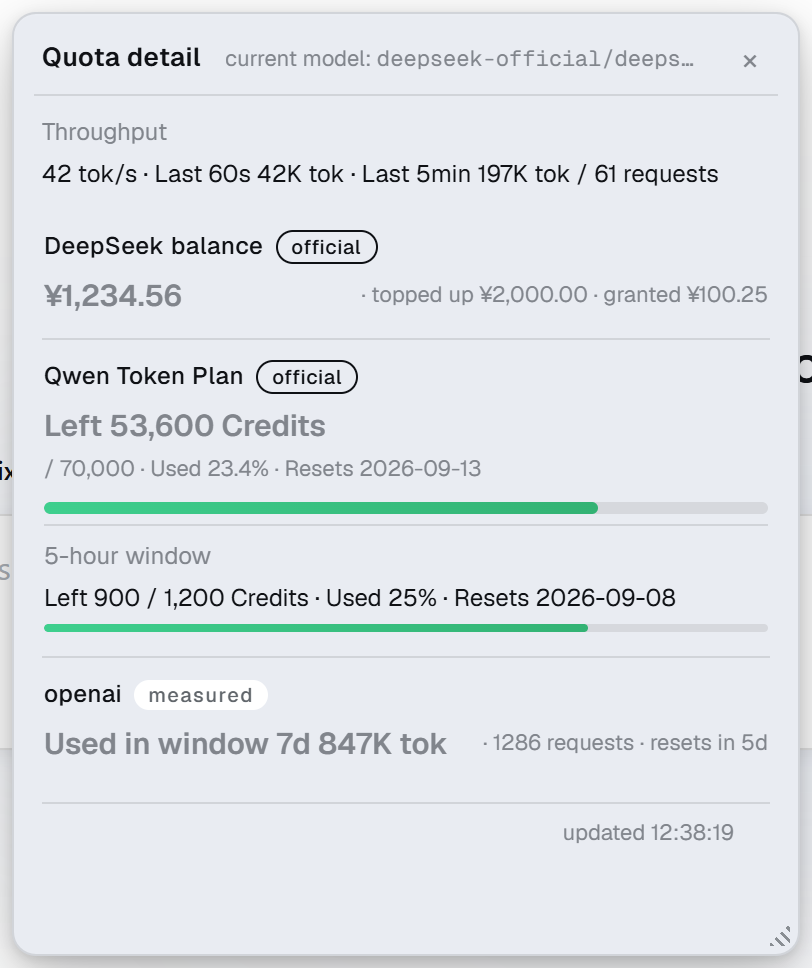
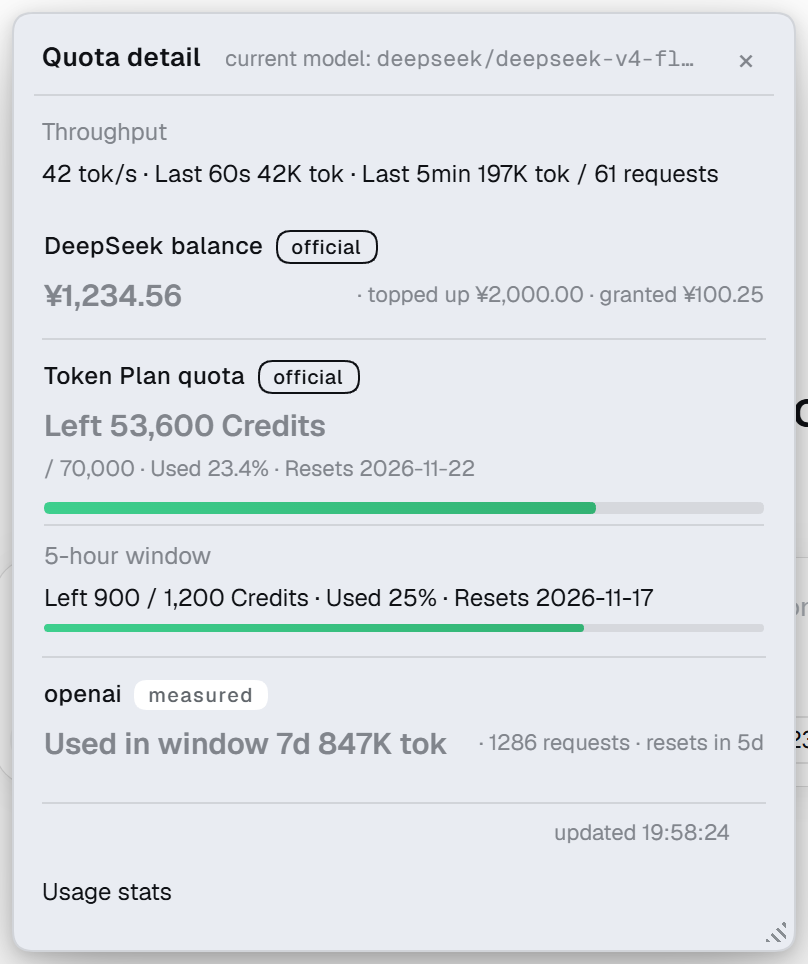
docs(shots): 重拍额度截图与 028 规格（028）
按修好的夹具重拍①徽标 GIF 与②③④⑤⑥⑦（zh）/①②③④⑤⑥（en）进 docs/images，
全部脚本生成（orchestrator 起 demo 实例 + make-shots）。②⑥控制台卡标签现为
「Token Plan 余量」/ Token Plan quota；⑤只显 DeepSeek 余额卡；⑥两条计量条与
重置日期完整可见。新增 specs/028-shot-fixture-faithfulness 四件，CHANGELOG
Unreleased/Fixed 记 028。README 图注不变；⑧-⑱用量图未受影响、不重拍。

diff --git a/specs/028-shot-fixture-faithfulness/spec.md b/specs/028-shot-fixture-faithfulness/spec.md
@@ -1,0 +1,48 @@
+# 028 截图夹具对齐宿主真值（三连图收敛 + 控制台卡标签）
+
+状态：进行中（2026-11-17）
+关联：005（徽标跟随模型）、026（卡片标签）、027（夜间说明）；scripts/shots/README.md
+
+## 背景
+
+README 的三种额度状态三连图（⑤⑥⑦）与徽标 GIF（①）停留在 2026-09-08 初版。2026-11-14 曾重拍，
+但 make-shots 在⑤之后崩（`Error: 点不到模型按钮（应显示「DeepSeek-V4-Flash」）`，抛在 `switchModel`），
+⑥⑦①从未重拍。本次修好取景链后复核夹具，发现三处与宿主真值漂移：
+
+1. **控制台卡标签漂移**：fixture `consoleCard` 标签写「千问 Token Plan」/ "Qwen Token Plan"，
+   而宿主 `token-plan-console` preset 的 `label`/`labelEn` 是「Token Plan 余量」/ "Token Plan quota"
+   （lib/index.js）。②③④⑥拍出的卡名与真实界面不符。
+2. **⑥用合成卡**：triptych 第二张推的是 `creditsPlanCard`（id `token-plan-credits`、4480/6000、无 meters），
+   这个 id 宿主 `publicCard` 白名单（lib/index.js）永不发出——是一张宿主造不出的假图。
+3. **钱卡 bindProviders 缺一条路由**：fixture `deepseekMoneyCard` 只绑 `['deepseek-official']`，
+   宿主 deepseek-balance 源的 `providers` 是 `['deepseek', 'deepseek-official']`（lib/index.js，经 `bindProviders` 直传）。
+   默认路由 `deepseek` 的模型匹配不到钱卡 ⇒ 面板 scoped 过滤为空 ⇒ `boundPanel` 退回全量（lib/client.js），
+   ⑤拍成「所有卡都在」的假图，而非「只显示当前供应商那张」。
+
+另有取景缺陷：徽标在输入行右对齐，中文权限标签 + 长模型名把整组推到 chip0.x≈715，
+浮框 x≈705 ⇒ 面板右缘 1225 > 视口 1150 ⇒ `framedClip` 把⑥的重置日期裁掉。
+
+## 目标
+
+- FR-001 `consoleCard` 标签对齐宿主 preset：zh「Token Plan 余量」/ en "Token Plan quota"。
+- FR-002 triptych 第二张改用 `consoleCard`（宿主真值、带两条窗口计量条），与②同源。
+- FR-003 删除合成 `creditsPlanCard` 整段（宿主永不发出，留着只会再被误用）。
+- FR-004 `deepseekMoneyCard` 的 `bindProviders` 改 `['deepseek', 'deepseek-official']`，与宿主 deepseek-balance 源一致。
+- FR-005 triptych 浮框 x 夹取 `Math.min(chip0.x-10, 视口宽-面板宽-90)`，防右缘裁切；徽标靠左时不生效。
+- FR-006 重拍受影响的①②③④⑤⑥⑦（zh）与①②③④⑤⑥（en）进 docs/images，全部脚本生成。
+
+## 非目标
+
+- 不改 lib/index.js、lib/client.js、test/：这是夹具与取景修复，宿主行为零变化。
+- 不重拍⑧-⑱用量统计图（用 usage payload，不含上述卡，11-14 已新且未受影响）。
+- 不改 README 图注（「官方余量卡与多窗口计量条」「有分母才画条」等描述对控制台卡仍成立）。
+- 不改⑦的 `emptyReason` 文案（宿主 lib/index.js 写死中文，英文套⑦按既定规则跳过）。
+
+## 验收标准
+
+- SC-001 ②⑥控制台卡标签逐字「Token Plan 余量」/ "Token Plan quota"；旧「千问 Token Plan」/ "Qwen Token Plan" 零残留。
+- SC-002 ⑤面板只显示 DeepSeek 余额卡（scoped 命中，不再退全量）。
+- SC-003 ⑥控制台卡两条计量条与重置日期完整可见，面板右缘留白、不裁切。
+- SC-004 仓库内 `creditsPlanCard` 与合成 id `token-plan-credits`（作为卡 id）零残留。
+- SC-005 `npm run check` 全绿（host / client / guards / check-manifest / check-docs / check-refs / check-submission）。
+- SC-006 零新路由、零新配置键、零新出站主机、零第三方依赖。

diff --git a/specs/028-shot-fixture-faithfulness/plan.md b/specs/028-shot-fixture-faithfulness/plan.md
@@ -1,0 +1,31 @@
+# 028 方案
+
+## 方案 A（采纳）夹具对齐宿主 + 取景夹取
+
+三处漂移都在 scripts/shots/fixture.mjs，取景在 make-shots.mjs，全是截图物料层，不碰宿主。
+标签与 `bindProviders` 直接照宿主真值抄（lib/index.js 的 `token-plan-console` preset 与 deepseek-balance 源 `providers`）；
+⑥换成与②同源的 `consoleCard`；合成卡删掉断绝误用；浮框 x 夹取防裁切。改完重拍受影响图。
+
+## 方案 B（否决）改 demo 路由 id 迁就旧夹具
+
+把 demo 的 deepseek 路由改名 deepseek-official 也能让⑤收敛，但那是拿测试环境去凑一张错夹具，
+且与宿主默认路由 `deepseek` 不符；正确方向是夹具绑双 id（宿主本就如此）。
+
+## 方案 C（否决）⑥保留合成卡只改标签
+
+`creditsPlanCard` 的 id 宿主永不发出，改标签也仍是假图；项目立场「宁可少一张也不拍宿主发不出的图」，
+必须换成宿主真值卡。
+
+## 已知盲点
+
+- `consoleCard` 带两条 meters，竖直能否塞进 triptych 浮框 h332 须实测——已验证塞得进，无需调高度。
+- 夹取用的视口宽 1150 是 triptych 内部取景视口（make-shots.mjs），不是 CLI 默认 1280；
+  写 docs 的窄视口闸门（make-shots.mjs）看的是 CLI 参数，默认取景不受影响。
+- 徽标右对齐程度随界面语言/权限标签长度变；夹取只在右缘要溢出时生效，向左不改变原取景。
+
+## 实施步骤
+
+1. fixture.mjs：`consoleCard` 标签、triptych 换卡、删 `creditsPlanCard`、钱卡 `bindProviders` 双 id。
+2. make-shots.mjs：triptych 浮框 x 夹取。
+3. 起 demo 实例（orchestrator-docs-028.mjs）重拍 zh ①-⑦ / en ①-⑥ 进 docs/images。
+4. 本目录四件 + CHANGELOG Unreleased/Fixed；全量门禁；提交。

diff --git a/specs/028-shot-fixture-faithfulness/INTERFACE.md b/specs/028-shot-fixture-faithfulness/INTERFACE.md
@@ -1,0 +1,31 @@
+# 028 INTERFACE（实现唯一真值）
+
+## 1. 宿主
+
+无改动。`publicCard` 白名单、`token-plan-console` preset 的 `label`/`labelEn`、
+deepseek-balance 源 `providers`、`bindProviders` 直传（均在 lib/index.js）为本次对齐的**权威来源**，不改。
+
+## 2. 夹具（scripts/shots/fixture.mjs）
+
+| 卡 | 字段 | 旧 | 新（宿主真值） |
+|---|---|---|---|
+| `consoleCard` | label zh / en | 千问 Token Plan / Qwen Token Plan | Token Plan 余量 / Token Plan quota |
+| `deepseekMoneyCard` | bindProviders | ['deepseek-official'] | ['deepseek', 'deepseek-official'] |
+| triptych 第二张 | 卡 | `creditsPlanCard`（合成 id token-plan-credits） | `consoleCard`（与②同源） |
+| `creditsPlanCard` | 整段 | 存在 | 删除 |
+
+`consoleCard` 数据不变：weekly 53600/70000、fiveHour 900/1200、extra.usedPercent 23、两条 meters。
+
+## 3. 取景（scripts/shots/make-shots.mjs）
+
+triptych 浮框：`const floatX = Math.min(Math.round(chip0.x) - 10, 1150 - 520 - 90)`，
+`setFloatBox({ x: floatX, y: 18, w: 520, h: 332 })`。视口 1150×820、dsf2 不变；`framedClip` 不变。
+
+## 4. 测试契约
+
+宿主/客户端/guards 测试不涉及夹具，零改动、测试数不变。check-docs 引用的图文件名
+（state-token-plan-credits.png 等）保持，内容重拍。
+
+## 5. 文档契约
+
+README 图注不变；CHANGELOG Unreleased/Fixed 记 028；specs/028 四件。

diff --git a/CHANGELOG.md b/CHANGELOG.md
@@ -8,6 +8,17 @@ All notable changes to this project are documented here. The format follows
 
 ## [Unreleased]
 
+### Fixed
+
+- **README 截图夹具对齐宿主真值（028）**：重拍①徽标 GIF 与②③④⑤⑥⑦（zh）/①②③④⑤⑥（en）。
+  修三处夹具漂移：控制台卡标签由「千问 Token Plan」/ "Qwen Token Plan" 改为宿主 preset 真值
+  「Token Plan 余量」/ "Token Plan quota"（lib/index.js:1383-1384）；三连图⑥由合成卡
+  `creditsPlanCard`（id `token-plan-credits`，宿主白名单永不发出）换成与②同源的控制台卡（带两条窗口计量条），
+  并删除该合成卡；DeepSeek 钱卡 bindProviders 由 `['deepseek-official']` 补成 `['deepseek', 'deepseek-official']`
+  （宿主 :1336），修好默认路由 `deepseek` 下⑤scoped 过滤为空退回全量、拍成「所有卡都在」的假图。
+  另给三连图浮框 x 加夹取，防徽标右对齐时面板右缘裁掉重置日期。宿主 lib/ 与测试零改动、测试数不变；
+  零新路由 / 配置键 / 出站主机 / 依赖。方案见 `specs/028-shot-fixture-faithfulness/`。
+
 ## [0.6.1] - 2026-11-15
 
 ### Added

diff --git a/specs/028-shot-fixture-faithfulness/tasks.md b/specs/028-shot-fixture-faithfulness/tasks.md
@@ -1,0 +1,11 @@
+# 028 任务清单
+
+- [x] 1. fixture.mjs：`consoleCard` 标签对齐宿主 preset（zh/en）。
+- [x] 2. fixture.mjs：triptych 第二张 `creditsPlanCard` → `consoleCard`；删除 `creditsPlanCard` 整段；更新注释。
+- [x] 3. fixture.mjs：`deepseekMoneyCard` 的 `bindProviders` → ['deepseek', 'deepseek-official']。
+- [x] 4. make-shots.mjs：triptych 浮框 x 夹取防右缘裁切。
+- [x] 5. 起 demo 实例重拍 zh ①②③④⑤⑥⑦ / en ①②③④⑤⑥ 进 docs/images（脚本生成）。
+- [x] 6. 目检②⑤⑥⑦（zh）与②（en）：标签、收敛、取景、文案逐项核对。
+- [x] 7. 本目录四件（spec / plan / INTERFACE / tasks）+ CHANGELOG Unreleased/Fixed。
+- [x] 8. 全量门禁 npm run check 全绿（host 1073 / client 1393 / guards 651 不变；manifest / docs / refs / submission OK）。
+- [x] 9. 评审 diff + 两提交：fix(shots) dc62615 / docs(shots)（中文 Conventional Commits，一提交一事）。
